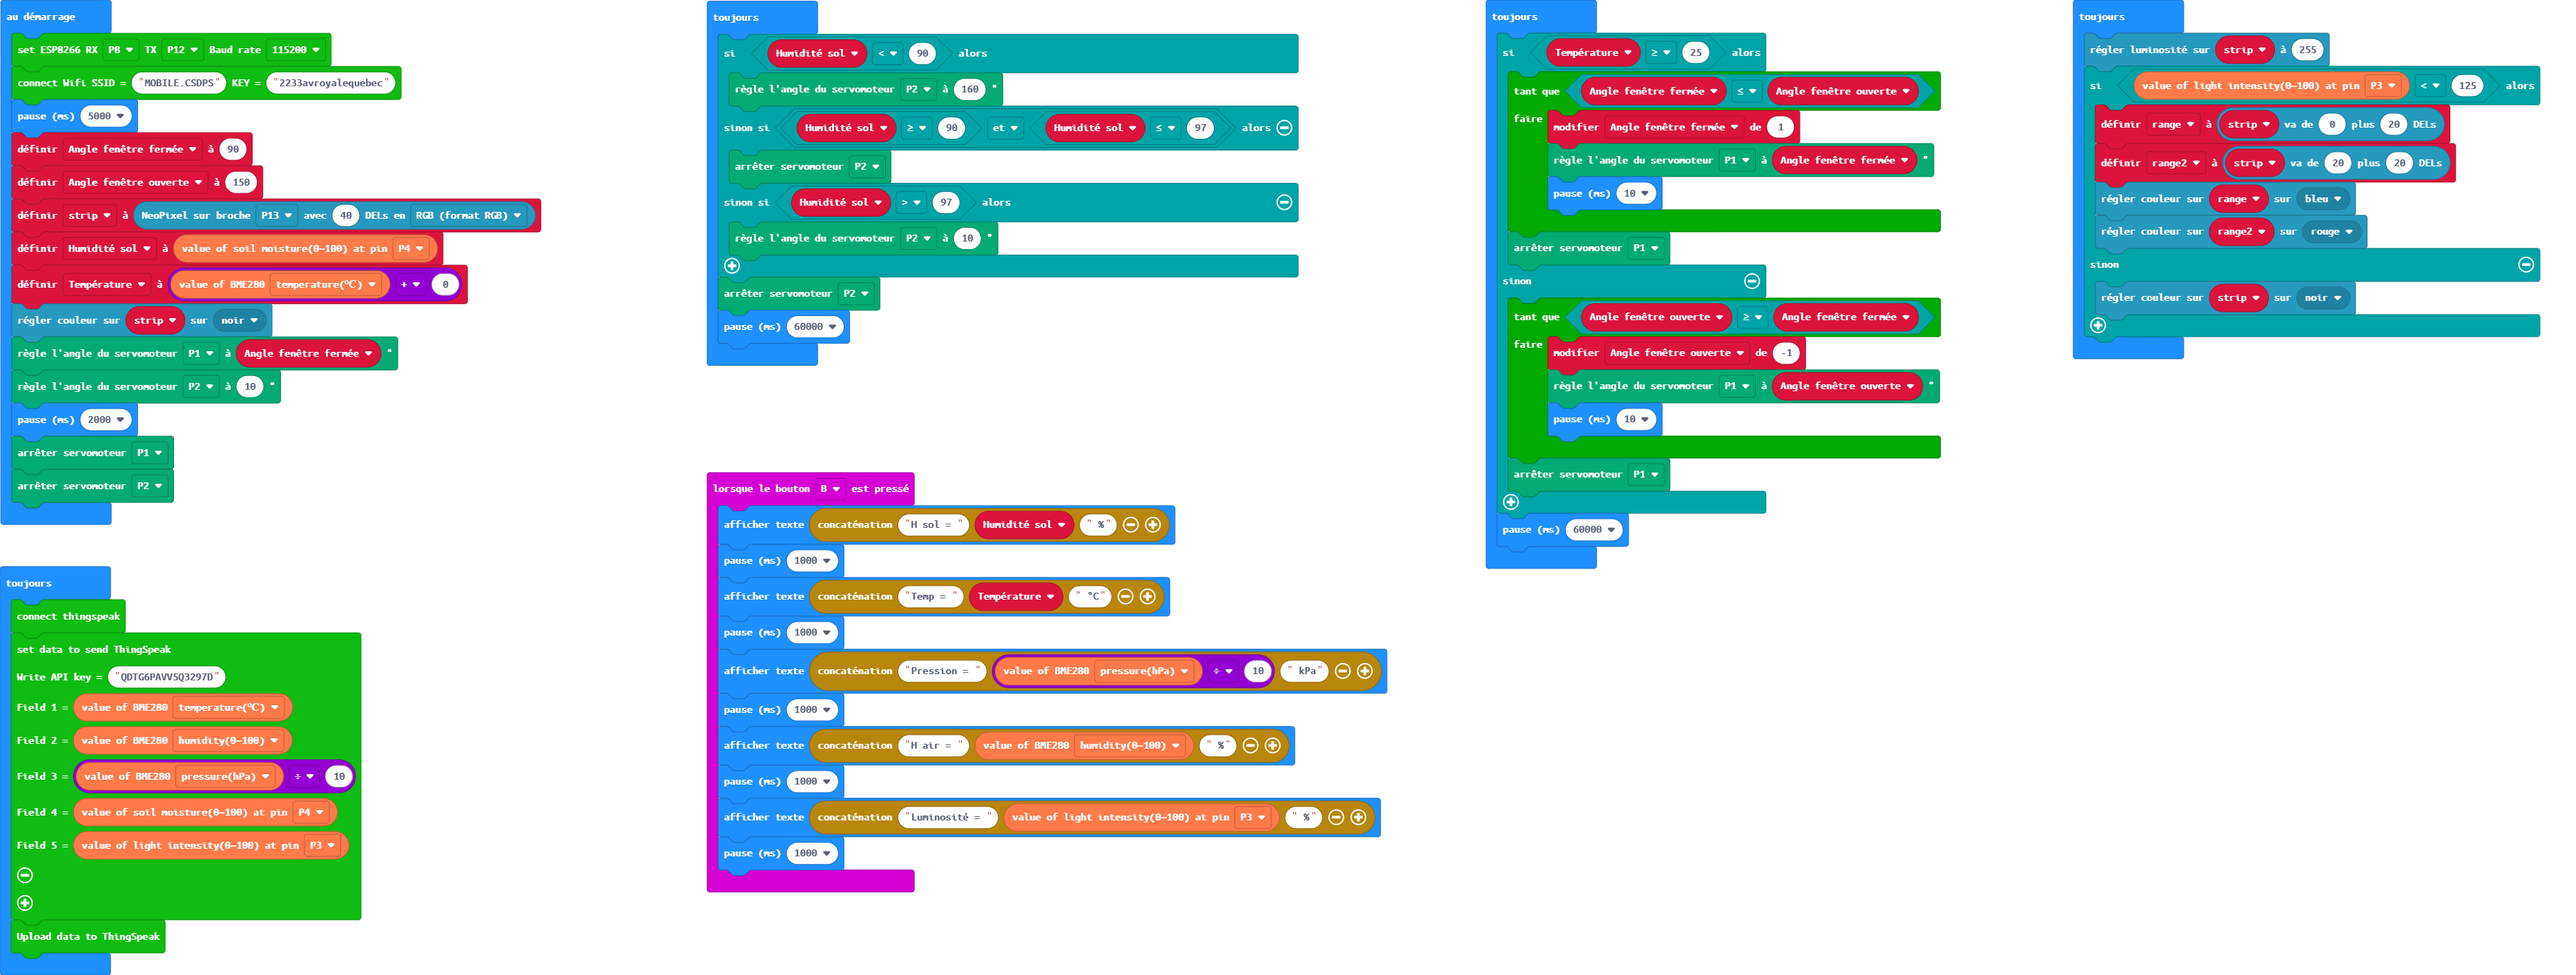
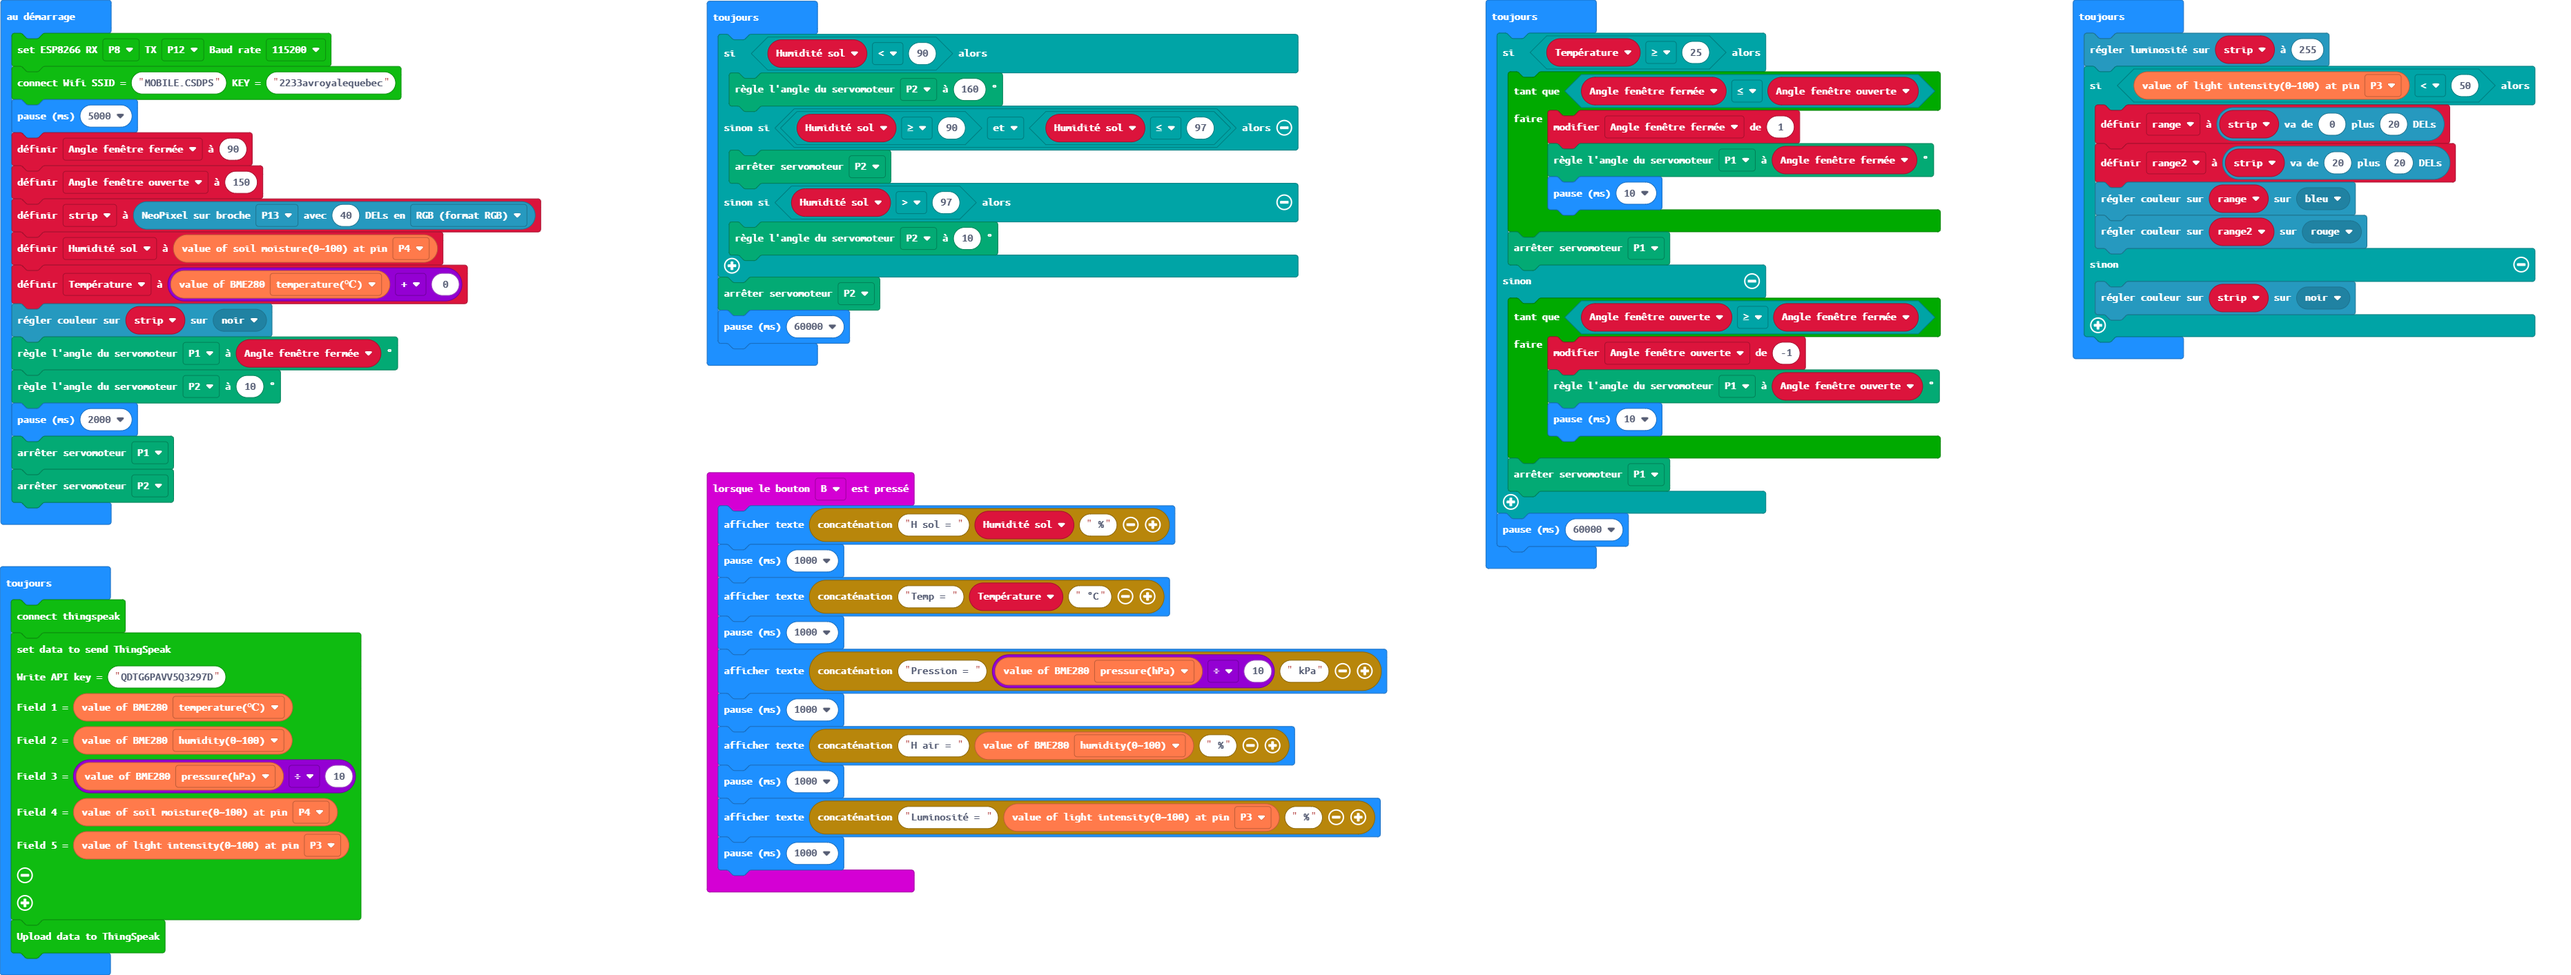
modifier valeur % lumière

diff --git a/main.ts b/main.ts
@@ -59,7 +59,7 @@ basic.forever(function () {
 })
 basic.forever(function () {
     strip.setBrightness(255)
-    if (Environment.ReadLightIntensity(AnalogPin.P3) < 125) {
+    if (Environment.ReadLightIntensity(AnalogPin.P3) < 50) {
         range = strip.range(0, 20)
         range2 = strip.range(20, 20)
         range.showColor(neopixel.colors(NeoPixelColors.Blue))
